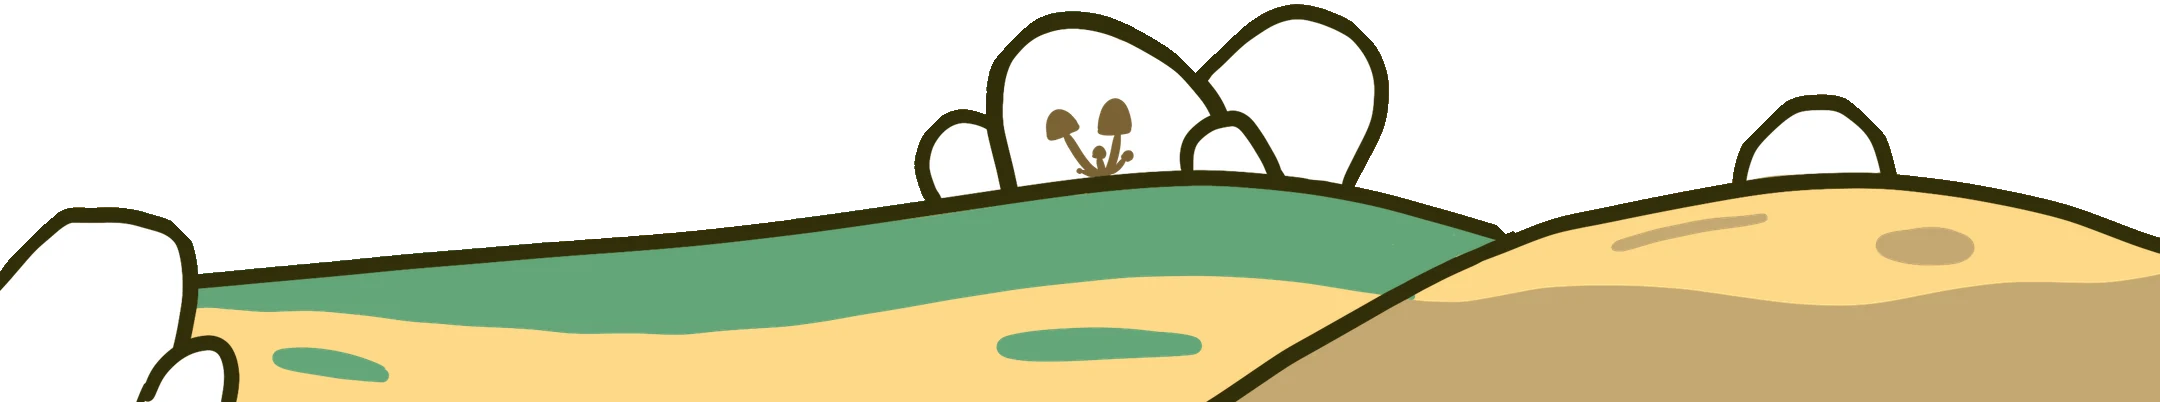
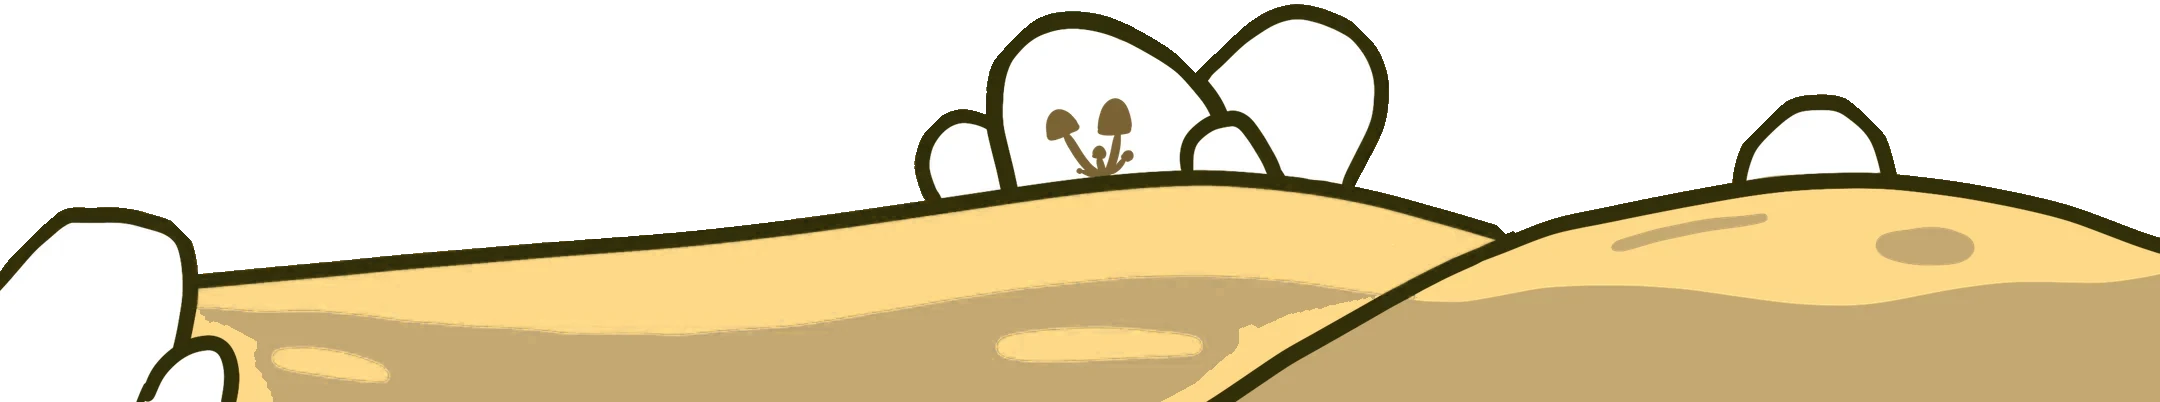
Ciclos: every hill yellow above and tan below
scripts/swap-ciclos-hills.mjs swaps the colours of the green hills (green
to yellow, yellow to tan), so all start dry the same way round and their
tan turns green with the day.

Claude-Session: https://claude.ai/code/session_01QfwwihVpCPTovbdSum58Fi

Changed region(s): [[0.0931, 0.4478, 0.7134, 1.0]]

diff --git a/docs/escenas.md b/docs/escenas.md
@@ -111,7 +111,7 @@ Its verb is Fluir, on the engine shared by the cards of the verb (`useFlow.js`).
 
 ## Ciclos (15)
 
-`SceneCiclos` (15) is built from the layers in `public/assets/ciclos` and `ciclosScene.json`, both made by `scripts/convert-ciclos.mjs` from the exported PNGs (`originales/ciclos`, 3240 px, scaled to the 2160 square; in the git history). The sky is not a picture: day and night are two liquids that never mix (`field()` in `useLayerStage`, as Upekkha's and Aceptación's). The teal night is in no layer: the converter reads it from the finished card (`public/cards/15.webp`) where nothing is drawn over it; what is covered (the moon, the sun, the clouds, Sid, the land, the logo) takes the nearest colour, and the edge is softened, much more round the moon and the sun so the line that splits the disc is a smooth curve. It writes the night's colour, its mask as runs per row (`night.rows`), its drops as ellipses (`night.bubbles`: teal ones in the day, yellow ones in the night) and the stars of layer 1 that fall well inside it. The scene turns the mask into distances when the screen changes size (an exact distance transform each way, `writeField`). The edge flows with a slow wave (`WAVE`), the drops sway and tremble as bubbles (`moveDrops`), and the stars are particles only in the night: the card's own and as many again over the rest of the sky (fixed, seeded), kept to the night by the field's mask, so they come and go with it. The night is a tide over the cycle (since November 2026): a cycle begins with the night over 90% of the sky that is seen (`NIGHT_START`) and ends with it over 6% (`NIGHT_END`), low on the right behind Sid. From the distances `writeField` keeps, for each px, how far it is into the night, plus a slope (`TIDE_SLOPE`, so the day stays over the name at first and leaves the night to the right) and a few slow lobes (`lobes()`, so the front is not a straight line); the two levels are the quantiles of that over the sky that is seen (above `SKY_BOTTOM`), worked out again with the screen's size. `pour()` writes the field again at the tide's level, only when it has moved half a px, so the edge keeps its waves and its membrane and flows as before. `flowed` eases towards the share of plants let go (slower than the disc's `dent`: the day pours over the sky little by little, and the night pours back slower when a new cycle begins). The ground goes with it: the hills are dry (tan and yellow) when a cycle begins and turn green (and yellow) as the day pours, along a front with slow lobes that flows from left to right, in step with `flowed` (`turn: [DRY, GREEN]` on every land picture: a px of either colour takes the green left of the front and the tan right of it, in the shader; the line work and every other colour are left as they are; `GROUND_SOFT`, `GROUND_LOBES`). Beyond the frame the edge goes on straight out: the day on the left, the night on the right, and over the top only the night of the top-right corner, so the card's name stays on the day.
+`SceneCiclos` (15) is built from the layers in `public/assets/ciclos` and `ciclosScene.json`, both made by `scripts/convert-ciclos.mjs` from the exported PNGs (`originales/ciclos`, 3240 px, scaled to the 2160 square; in the git history). The sky is not a picture: day and night are two liquids that never mix (`field()` in `useLayerStage`, as Upekkha's and Aceptación's). The teal night is in no layer: the converter reads it from the finished card (`public/cards/15.webp`) where nothing is drawn over it; what is covered (the moon, the sun, the clouds, Sid, the land, the logo) takes the nearest colour, and the edge is softened, much more round the moon and the sun so the line that splits the disc is a smooth curve. It writes the night's colour, its mask as runs per row (`night.rows`), its drops as ellipses (`night.bubbles`: teal ones in the day, yellow ones in the night) and the stars of layer 1 that fall well inside it. The scene turns the mask into distances when the screen changes size (an exact distance transform each way, `writeField`). The edge flows with a slow wave (`WAVE`), the drops sway and tremble as bubbles (`moveDrops`), and the stars are particles only in the night: the card's own and as many again over the rest of the sky (fixed, seeded), kept to the night by the field's mask, so they come and go with it. The night is a tide over the cycle (since November 2026): a cycle begins with the night over 90% of the sky that is seen (`NIGHT_START`) and ends with it over 6% (`NIGHT_END`), low on the right behind Sid. From the distances `writeField` keeps, for each px, how far it is into the night, plus a slope (`TIDE_SLOPE`, so the day stays over the name at first and leaves the night to the right) and a few slow lobes (`lobes()`, so the front is not a straight line); the two levels are the quantiles of that over the sky that is seen (above `SKY_BOTTOM`), worked out again with the screen's size. `pour()` writes the field again at the tide's level, only when it has moved half a px, so the edge keeps its waves and its membrane and flows as before. `flowed` eases towards the share of plants let go (slower than the disc's `dent`: the day pours over the sky little by little, and the night pours back slower when a new cycle begins). The ground goes with it: every hill is yellow above and tan below (in the card the green hills had their colour on top and the yellow below; `scripts/swap-ciclos-hills.mjs`, run after the converter, swaps their colours in `land0`–`land3`: the green becomes the yellow and the yellow the tan, by one affine map of the colours so the soft edges stay soft, and where two hills meet with no line the yellow goes with the nearest of green and tan). The hills are dry (tan and yellow) when a cycle begins and turn green (and yellow) as the day pours, along a front with slow lobes that flows from left to right, in step with `flowed` (`turn: [DRY, GREEN]` on every land picture: a px of either colour takes the green left of the front and the tan right of it, in the shader; the line work and every other colour are left as they are; `GROUND_SOFT`, `GROUND_LOBES`). Beyond the frame the edge goes on straight out: the day on the left, the night on the right, and over the top only the night of the top-right corner, so the card's name stays on the day.
 
 The round body in the sky is both moon and sun, as in the card: the moon (2, 3, 5, a picture) and its stippled shade (4, particles that ride and turn with it, `turn()`) are kept to the night side of the same field the sky is drawn with; the sun is kept to the day side: a disc drawn in code (`disc()`, whole under the moon), its soft lights, and over the disc's edge its stippled corona as live particles, read from the finished card by `scripts/sun-cloud.mjs` on the left of the sun, the only part the card shows (`sun.cloud`; `strict`, since the night's teal lies on the way from the day's yellow to the red), as Metta's lights (package S): the disc is only as big as where the sun is still whole (`cloud.solid`), so no circle shows. Where the day flows across the disc the moon gives way to the sun, and back. This is a mask by a field (`node.maskBy(field, side)` for pictures and glows, a particle group's `mask` in `useStardust`): the material works out the field's edge as `FIELD_FRAGMENT` does (its map, wave and swell, not its bubbles) from where the px is on screen, less how far the field has slid with the camera; it is behind a define (`FIELD_MASK`), so unmasked layers draw as before.
 
